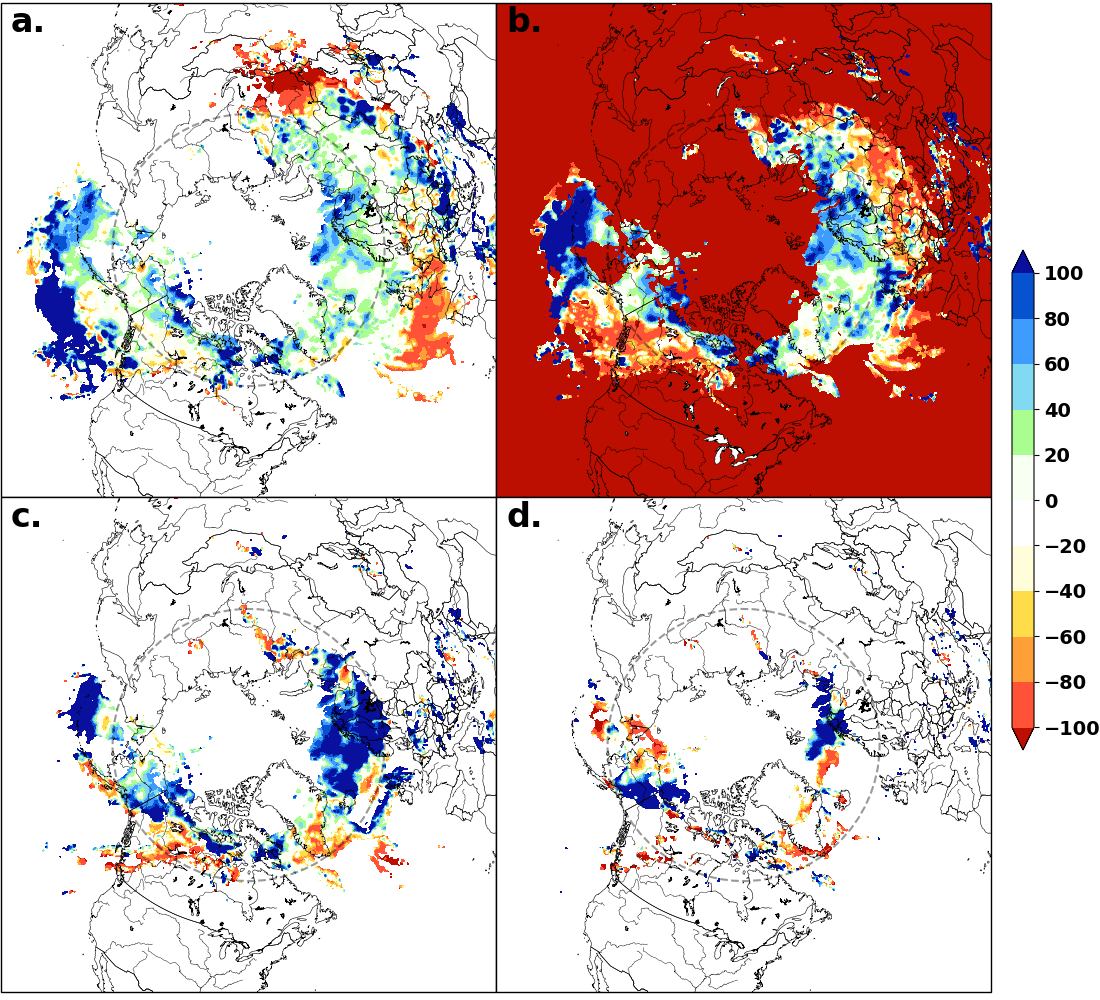
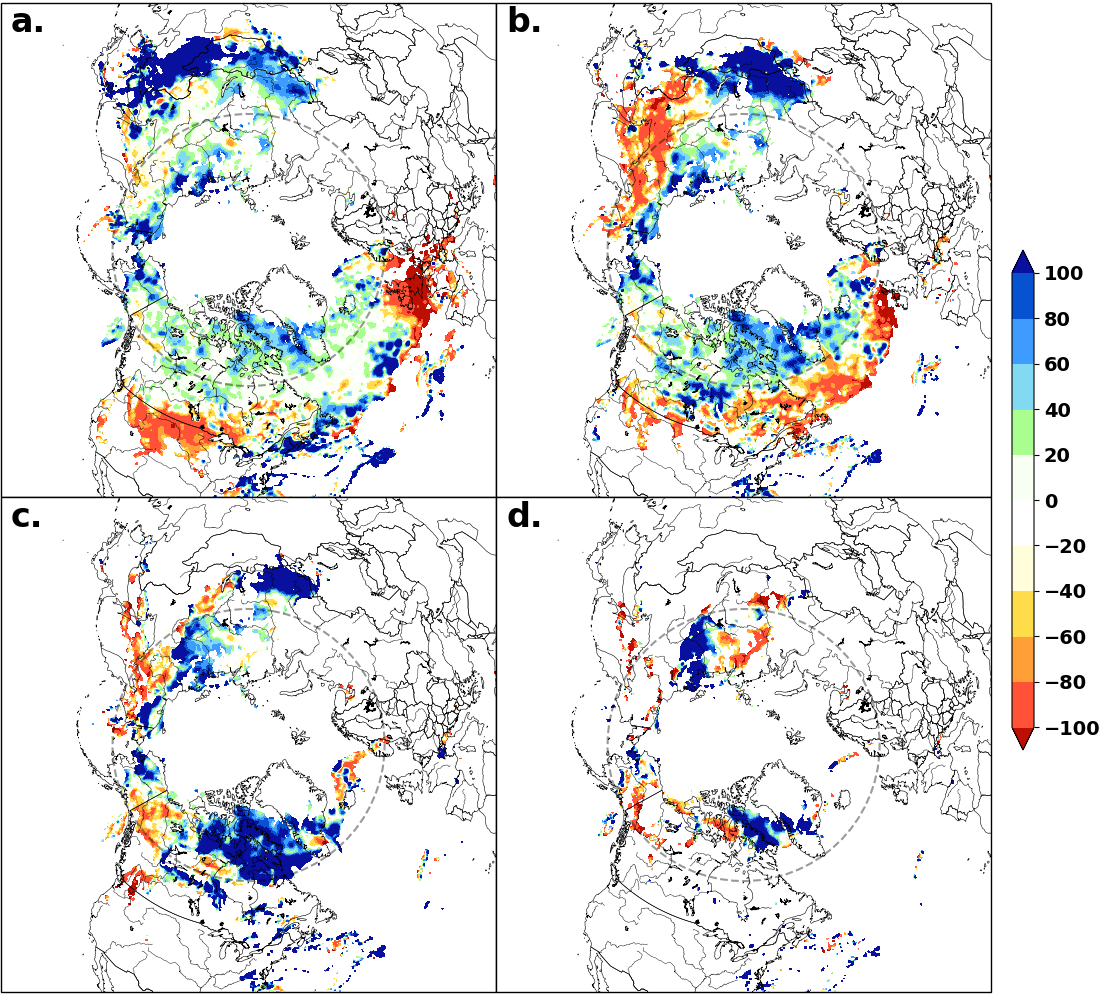
final test

diff --git a/plotting/snow_fig_3.py b/plotting/snow_fig_3.py
@@ -26,7 +26,7 @@ plt.rcParams['xtick.labelsize'] = 14
 plt.rcParams['ytick.labelsize'] = 14
 
 fig_crs = ccrs.LambertAzimuthalEqualArea(central_latitude=90, central_longitude=-80)
-data_crs = ccrs.Stereographic(true_scale_latitude=60, central_longitude=10, central_latitude = 90, globe=ccrs.Globe(semimajor_axis=6371200, semiminor_axis=6371200))
+data_crs = ccrs.Stereographic(true_scale_latitude=60, central_longitude=-80, central_latitude = 90, globe=ccrs.Globe(semimajor_axis=6371200, semiminor_axis=6371200))
 
 figsize = (11, 10)
 dpi = 100
